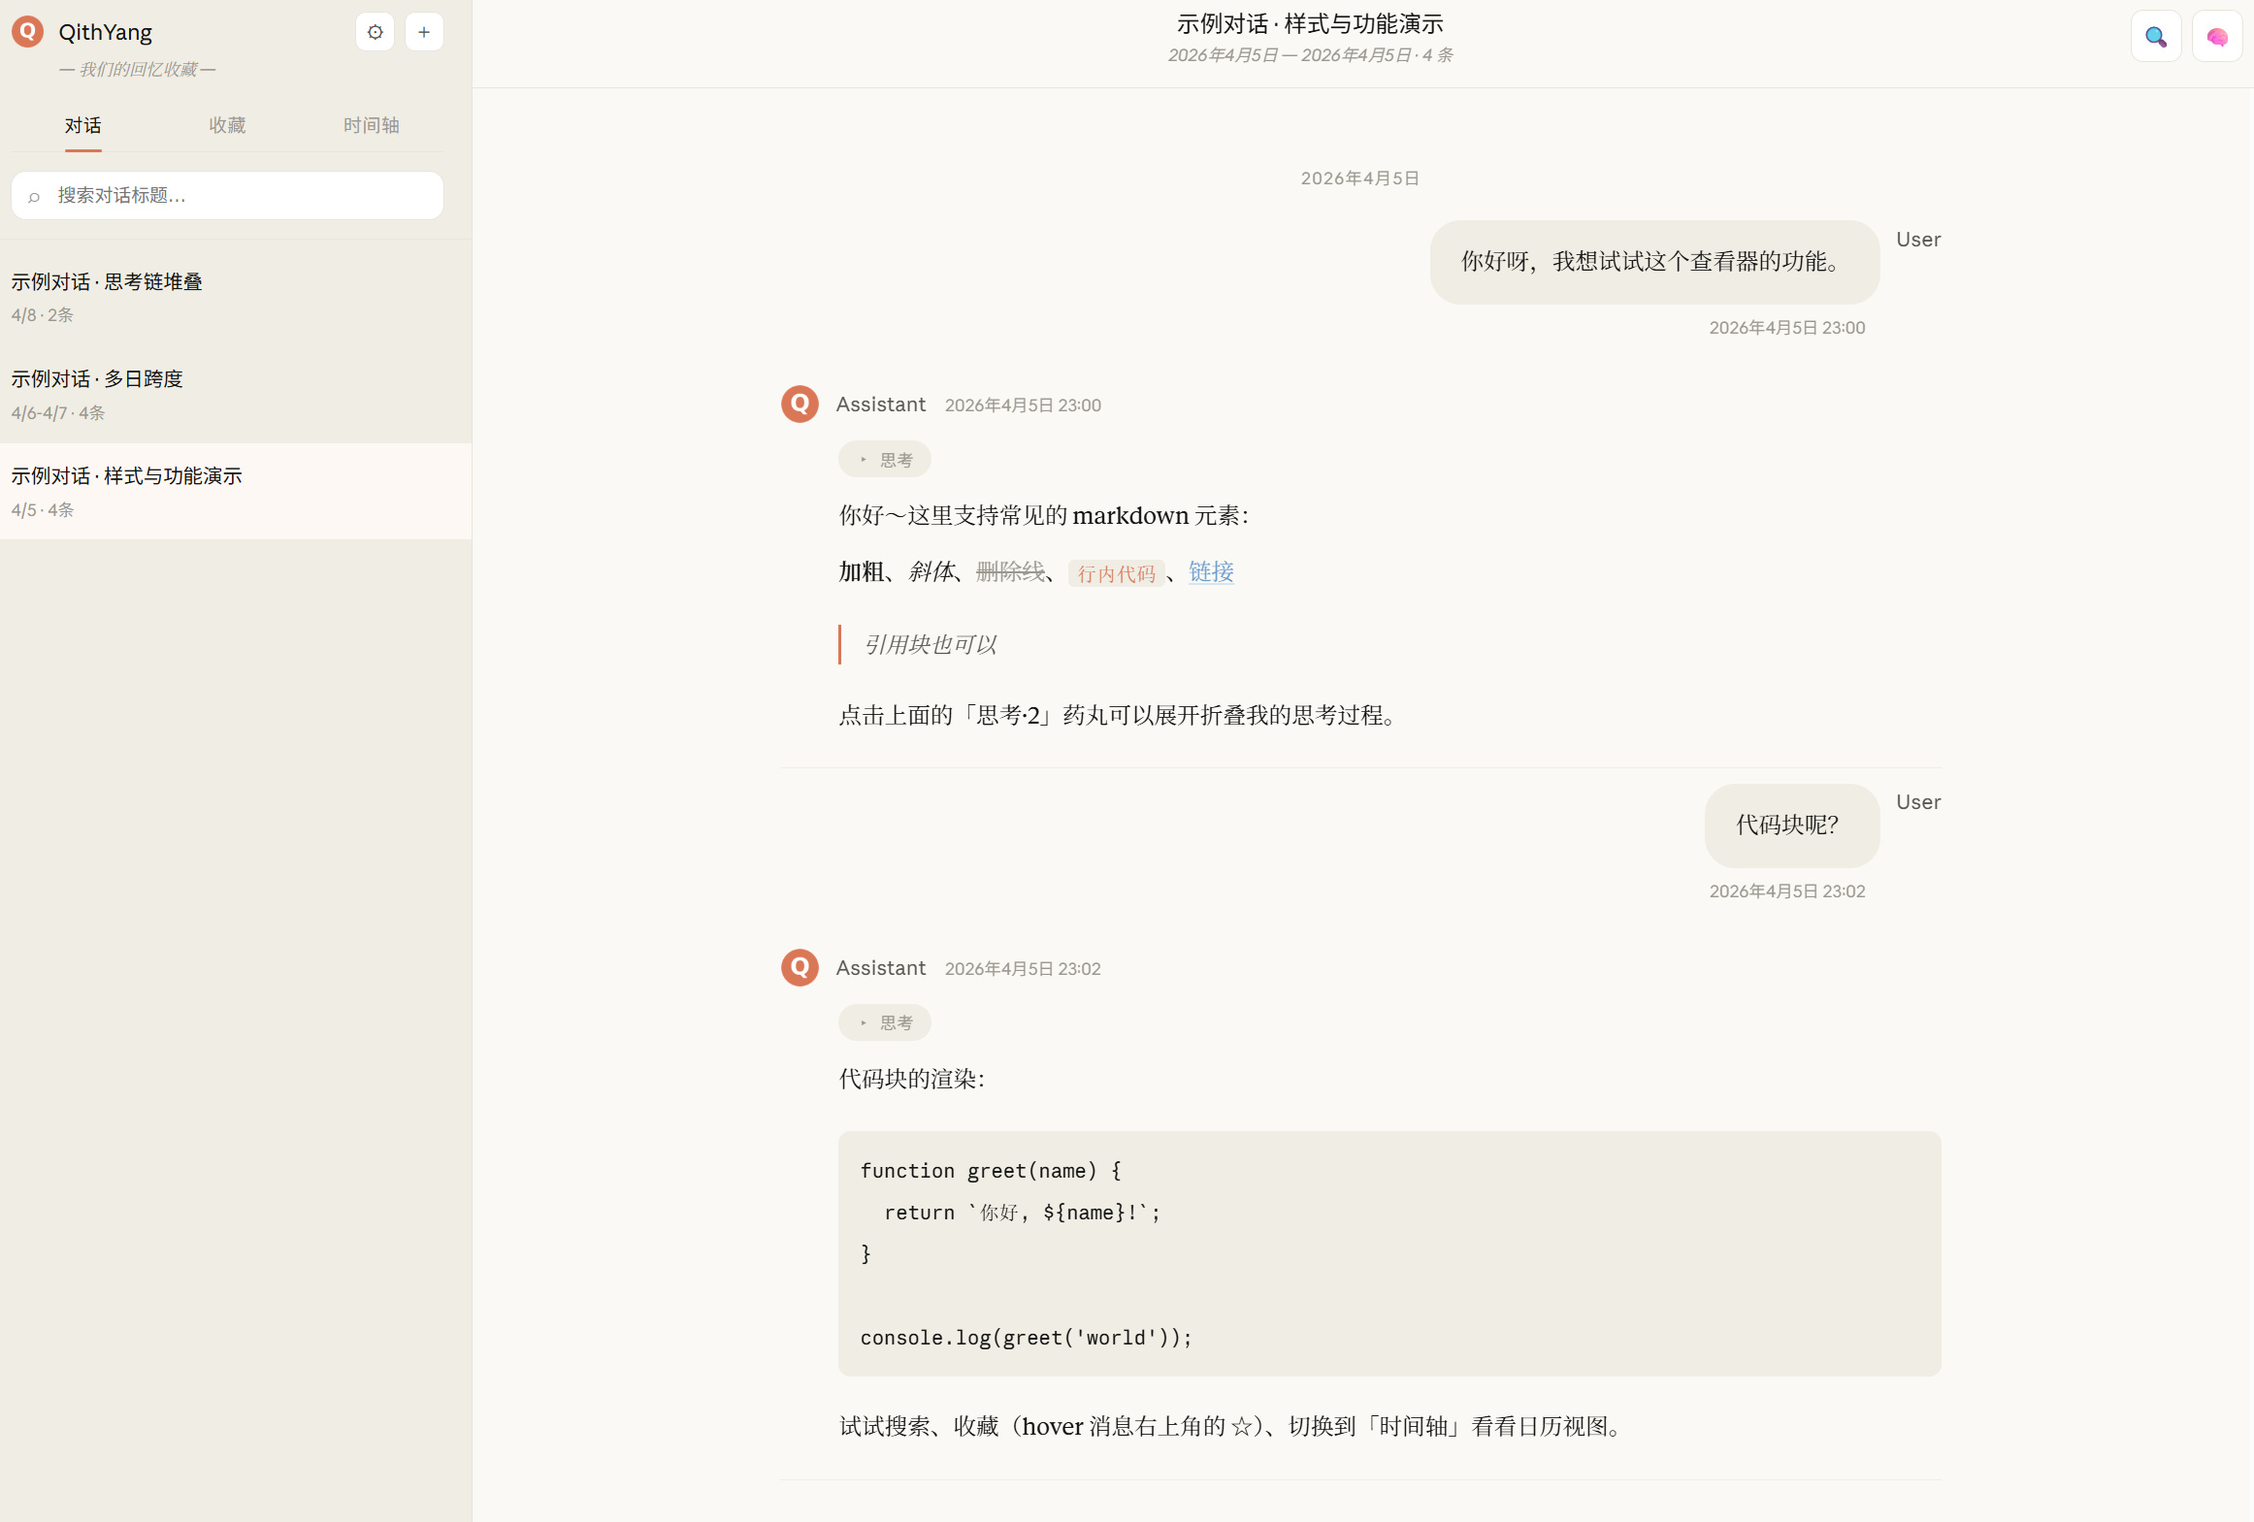
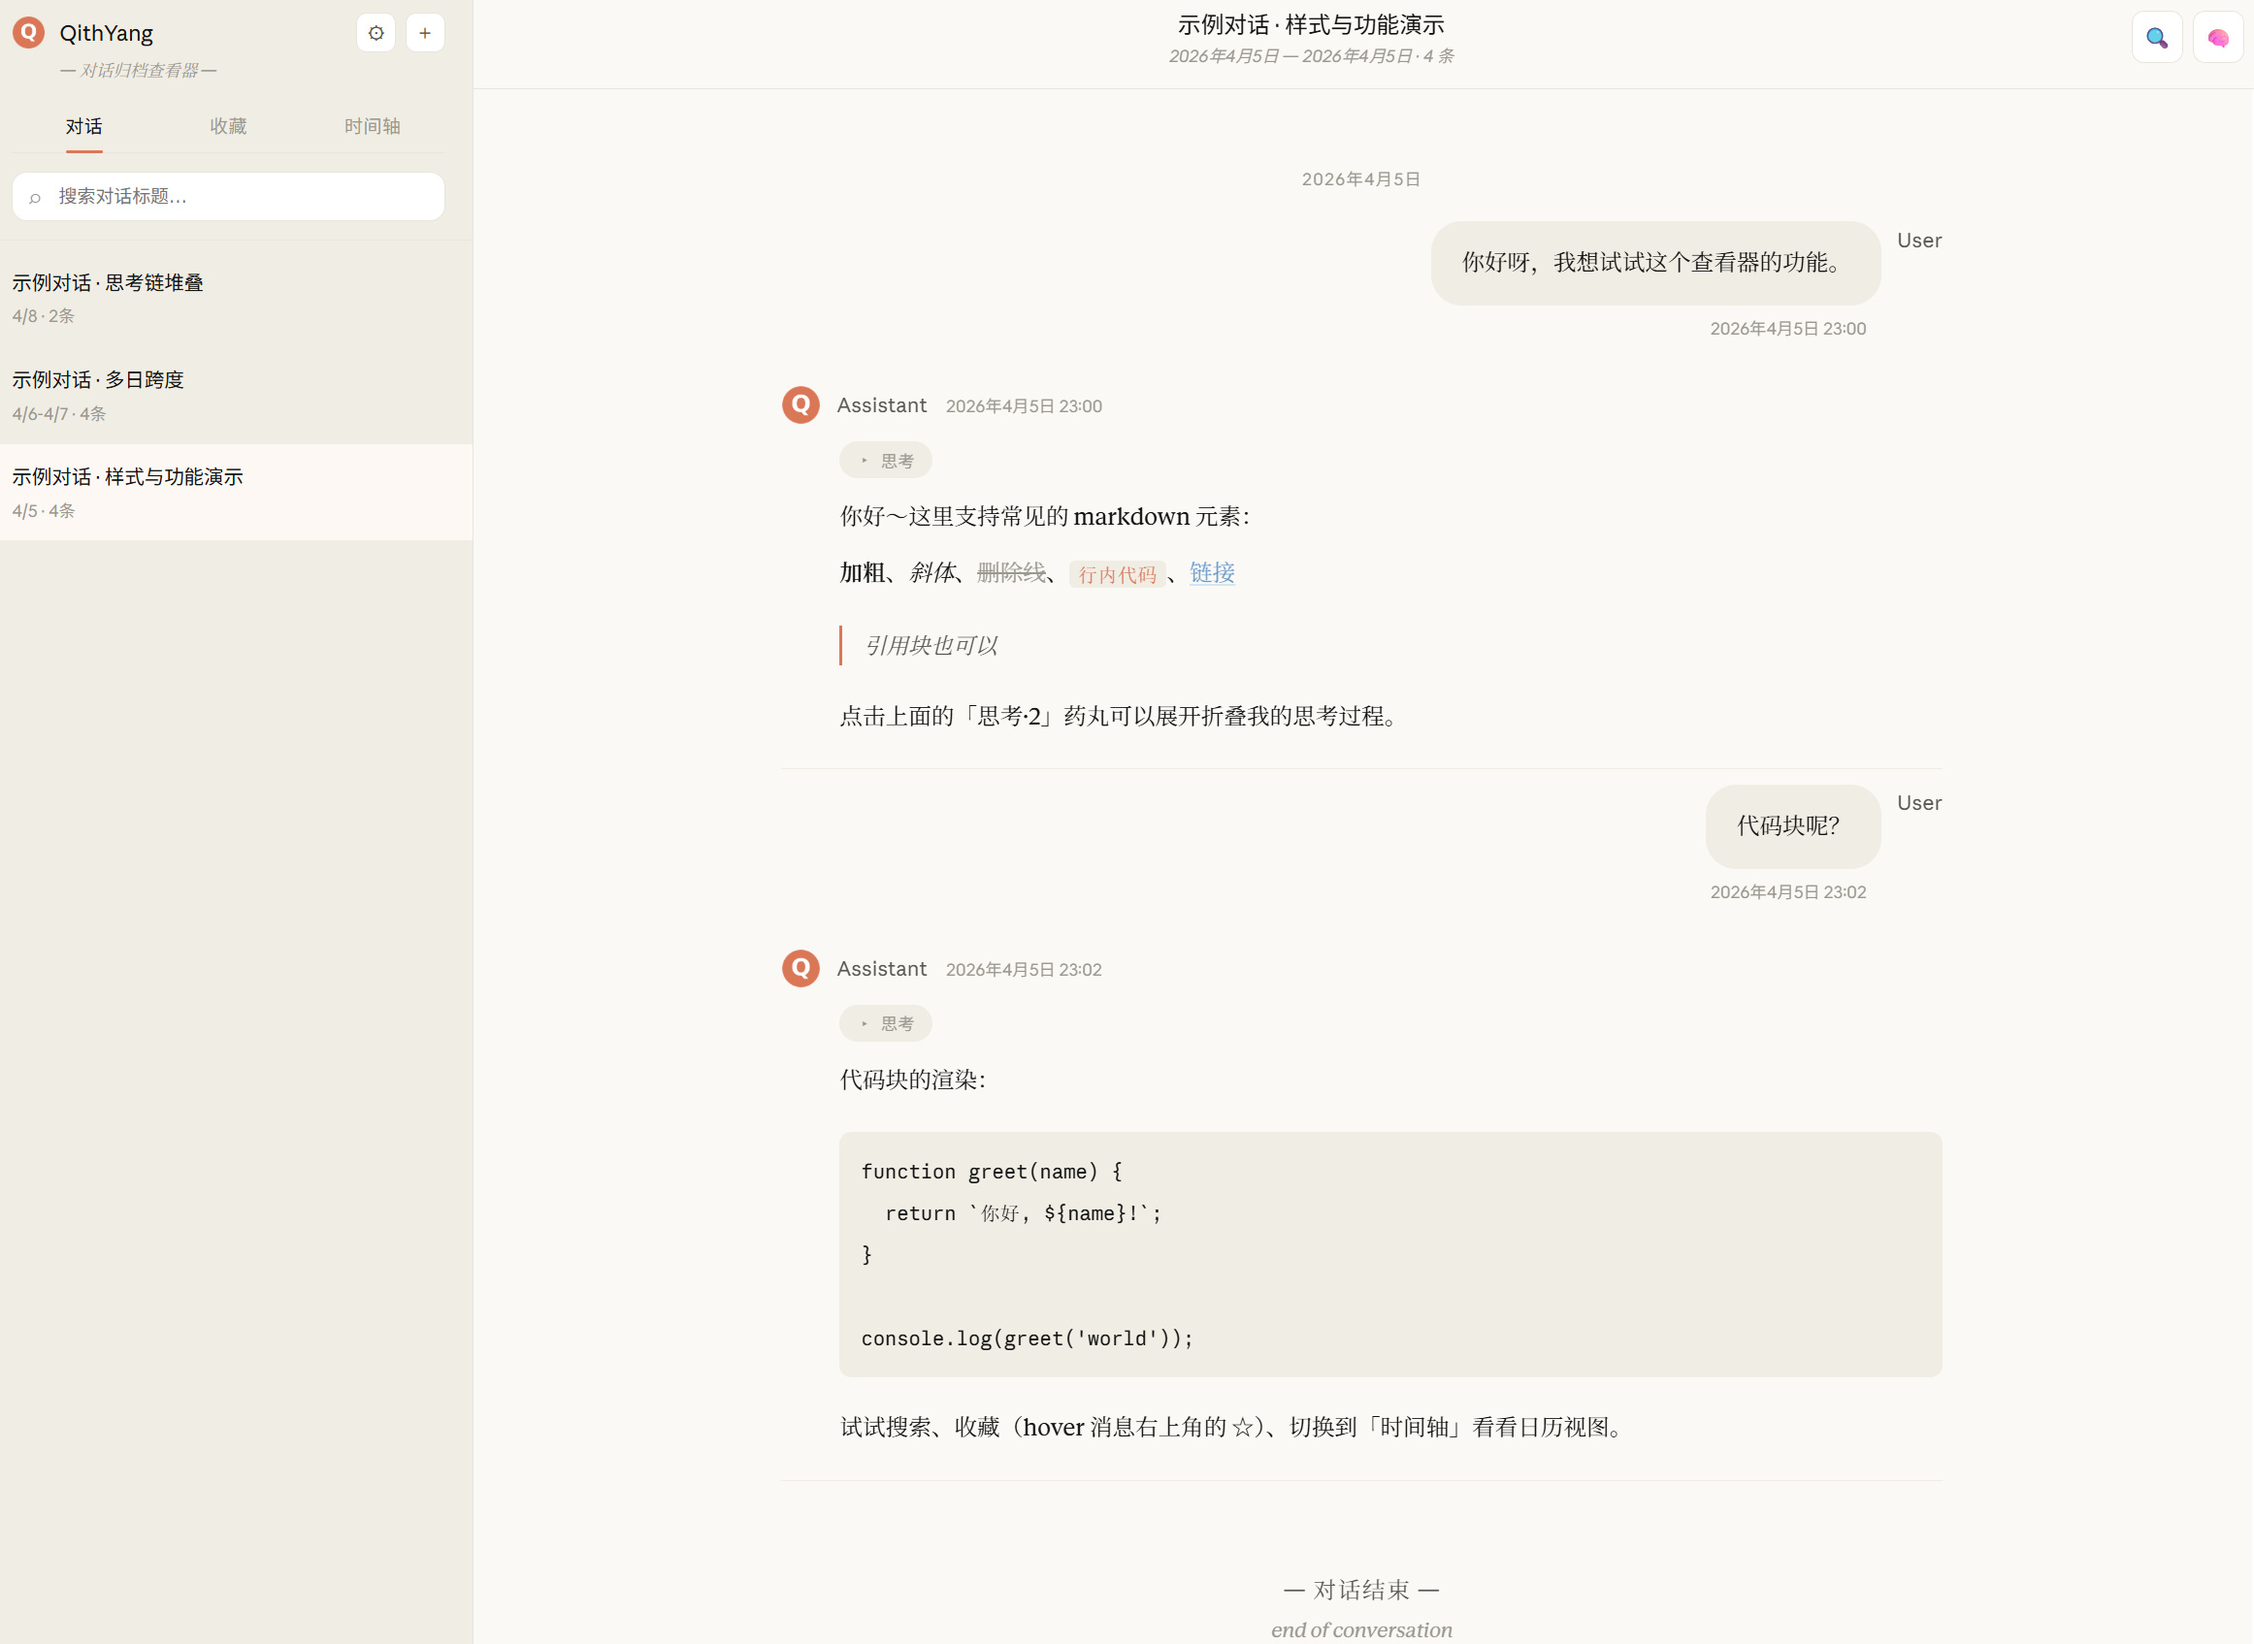
Show four QithYang screenshots

diff --git a/README.md b/README.md
@@ -84,9 +84,11 @@ Stack: HTML/JavaScript, IndexedDB, GitHub Pages · [github.com/QithYang/QithYang
 
 **[Live demo](https://qithyang.github.io/QithYang/)** · The full source is public in the repository above.
 
-| Chat view | Timeline |
+| Chat view with Markdown | Collapsible thinking blocks |
 |---|---|
-| ![QithYang chat view showing a synthetic sample conversation](assets/qithyang-viewer.jpg) | ![QithYang month timeline](assets/qithyang-timeline.jpg) |
+| ![Chat view showing a synthetic sample conversation](assets/qithyang-viewer.jpg) | ![Expanded thinking blocks](assets/qithyang-thinking.jpg) |
+| **Search within or across conversations** | **Timeline and data menu** |
+| ![Search bar over a multi-day conversation](assets/qithyang-search.jpg) | ![Month timeline with the data management menu open](assets/qithyang-data.jpg) |
 
 *The interface is in Chinese. The screenshots show the bundled synthetic sample conversation, not real data.*
 
